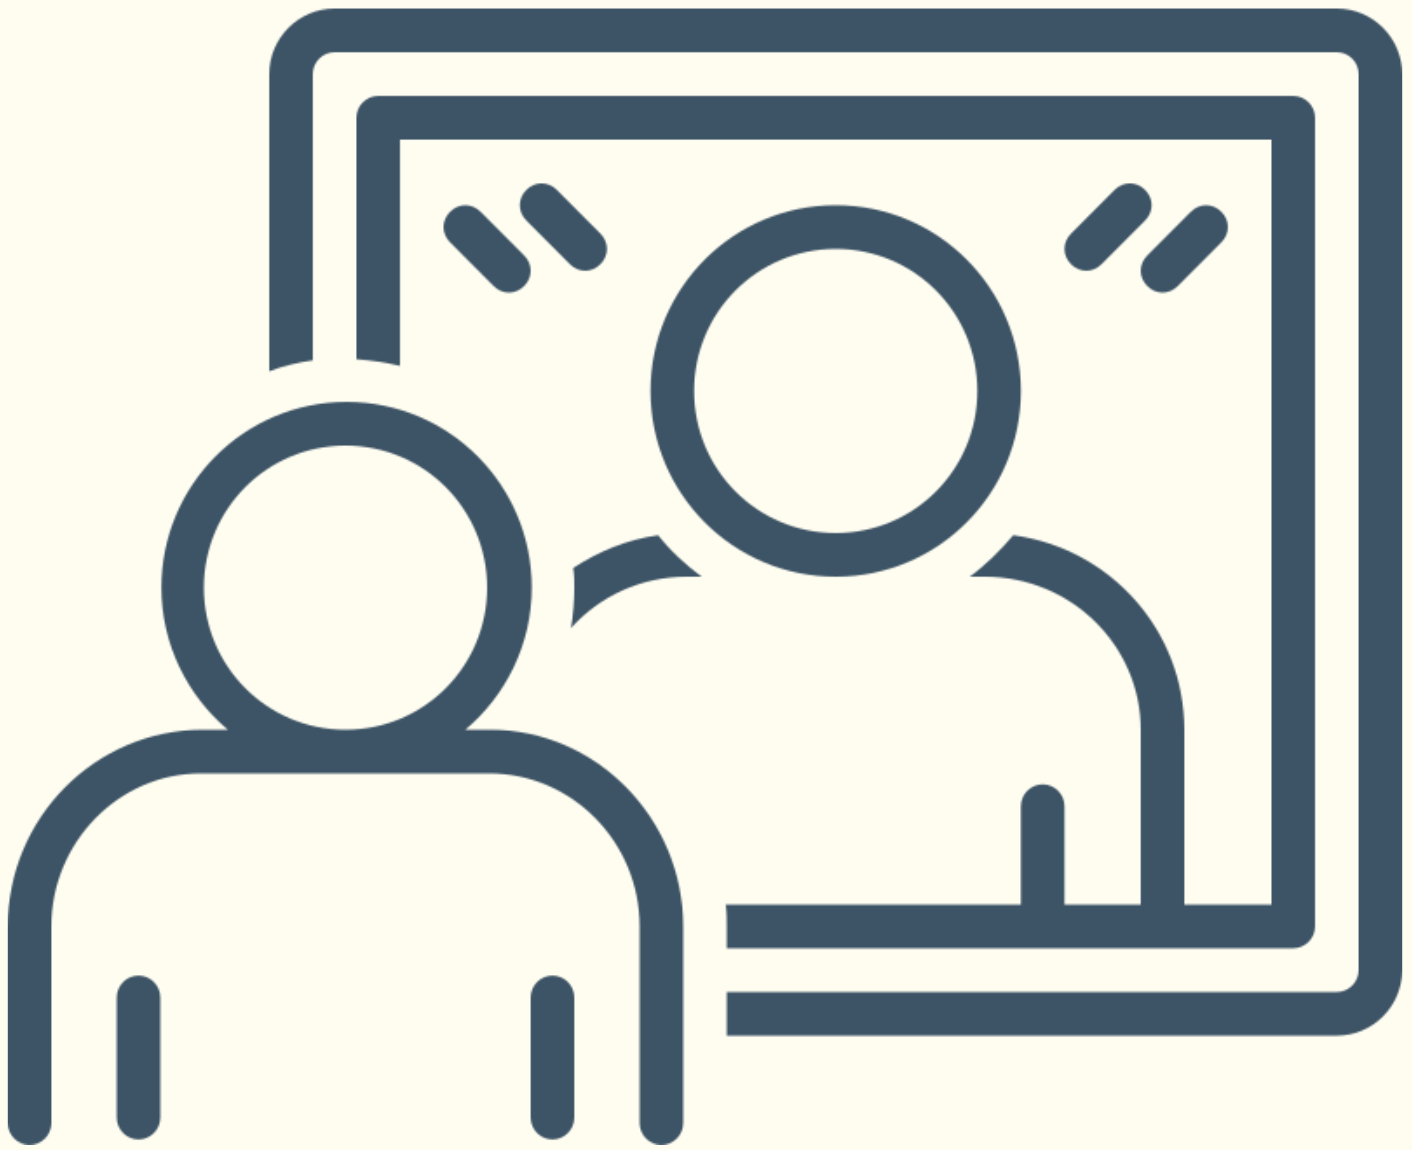
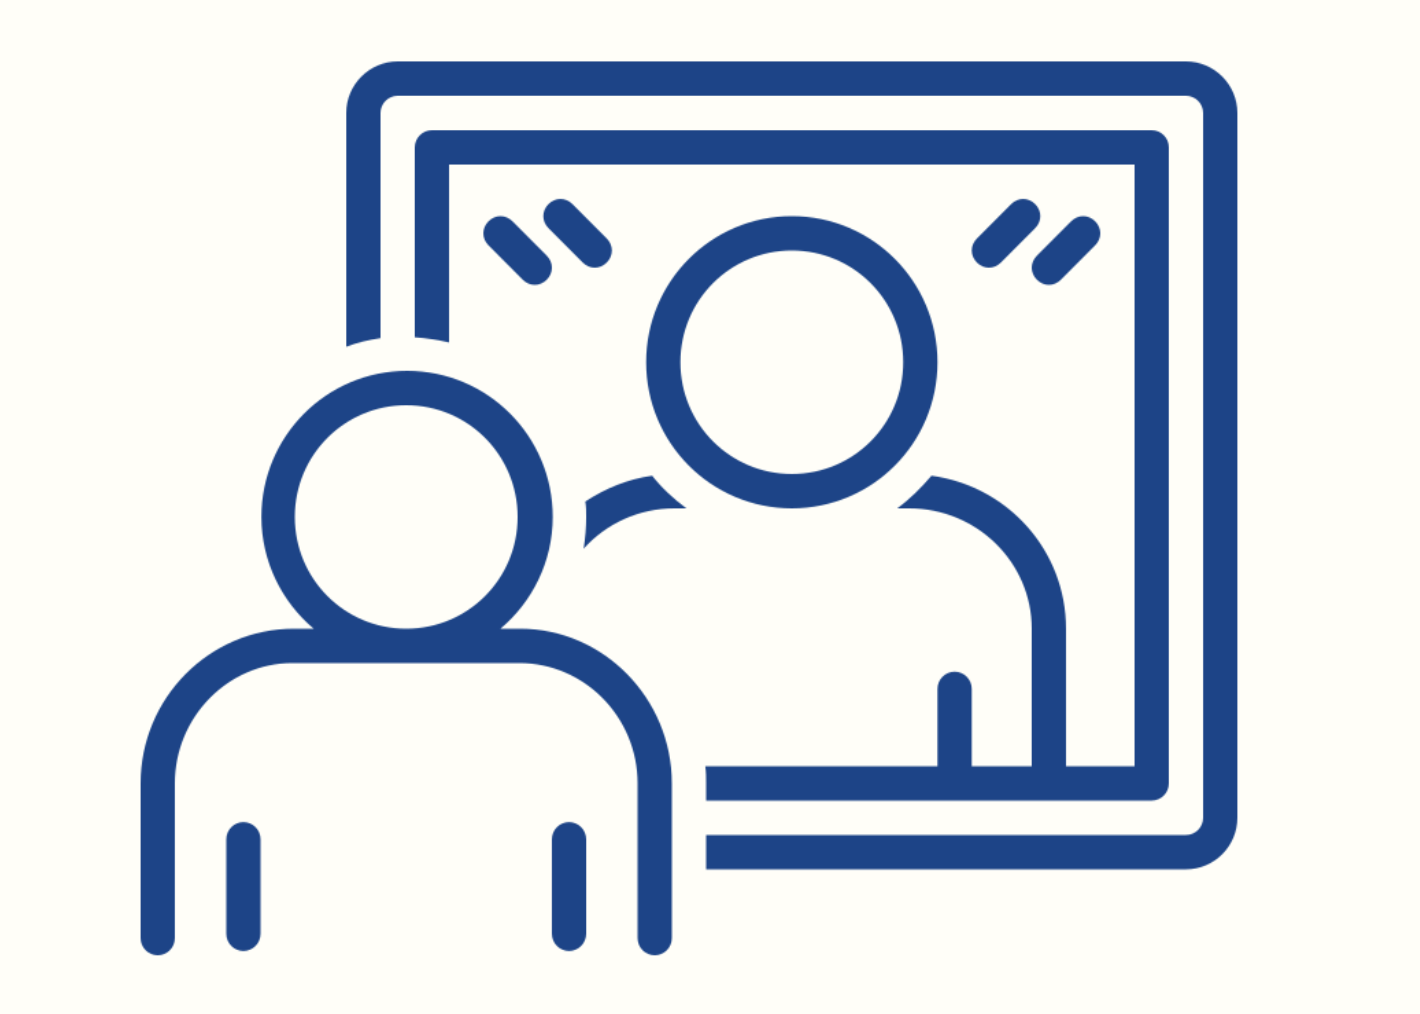
Design Changes

diff --git a/Styles/master.css b/Styles/master.css
@@ -1,21 +1,21 @@
 
 .d-blue-max{
-	background: #3d5367!important;
+	background: #1D4289!important;
 }
 .d-blue-min{
-	color: #3d5367!important;
+	color: #1D4289!important;
 }
 
 .d-blue-btn {
-	color: #3d5367;
-    border-color: #3d5367;
+	color: #1D4289;
+    border-color: #1D4289;
     margin: 0.1rem;
 }
 
 .d-blue-btn-primary {
 	color: #fff;
-    background-color: #3d5367;
-    border-color: #3d5367;
+    background-color: #1D4289;
+    border-color: #1D4289;
 }
 
 .d-blue-btn-primary:hover {
@@ -26,8 +26,8 @@
 
 .d-blue-btn:hover {
 	color: #fff;
-    background-color: #3d5367;
-    border-color: #3d5367;
+    background-color: #1D4289;
+    border-color: #1D4289;
 }
 
 .lower-header{
@@ -39,11 +39,11 @@
 	color: #b2cecf;
 }
 .o-white-max {
-	background: #fffdef;
+	background: #FFFEF7;
 }
 
 .o-white-min {
-	color: #fffdef;
+	color: #FFFEF7;
 }
 
 .journal-text-area {
@@ -65,7 +65,7 @@
 	white-space: nowrap;
 }
 .wordcount-text {
-	background: #fffdef;
+	background: #FFFEF7;
 }
 
 .poscomment-text{

diff --git a/Views/meta_footer.php b/Views/meta_footer.php
@@ -2,6 +2,6 @@
 	<span>University of Sussex - 2020-2021</span>
 	<div class="d-flex flex-column">
 		<span>Created by Sumedh Nimkar</span>
-		<span>Audio by Moi Camargo Cano</span>
+		<span>Audio by Moisés Camargo Cano</span>
 	</div>
 </div>
